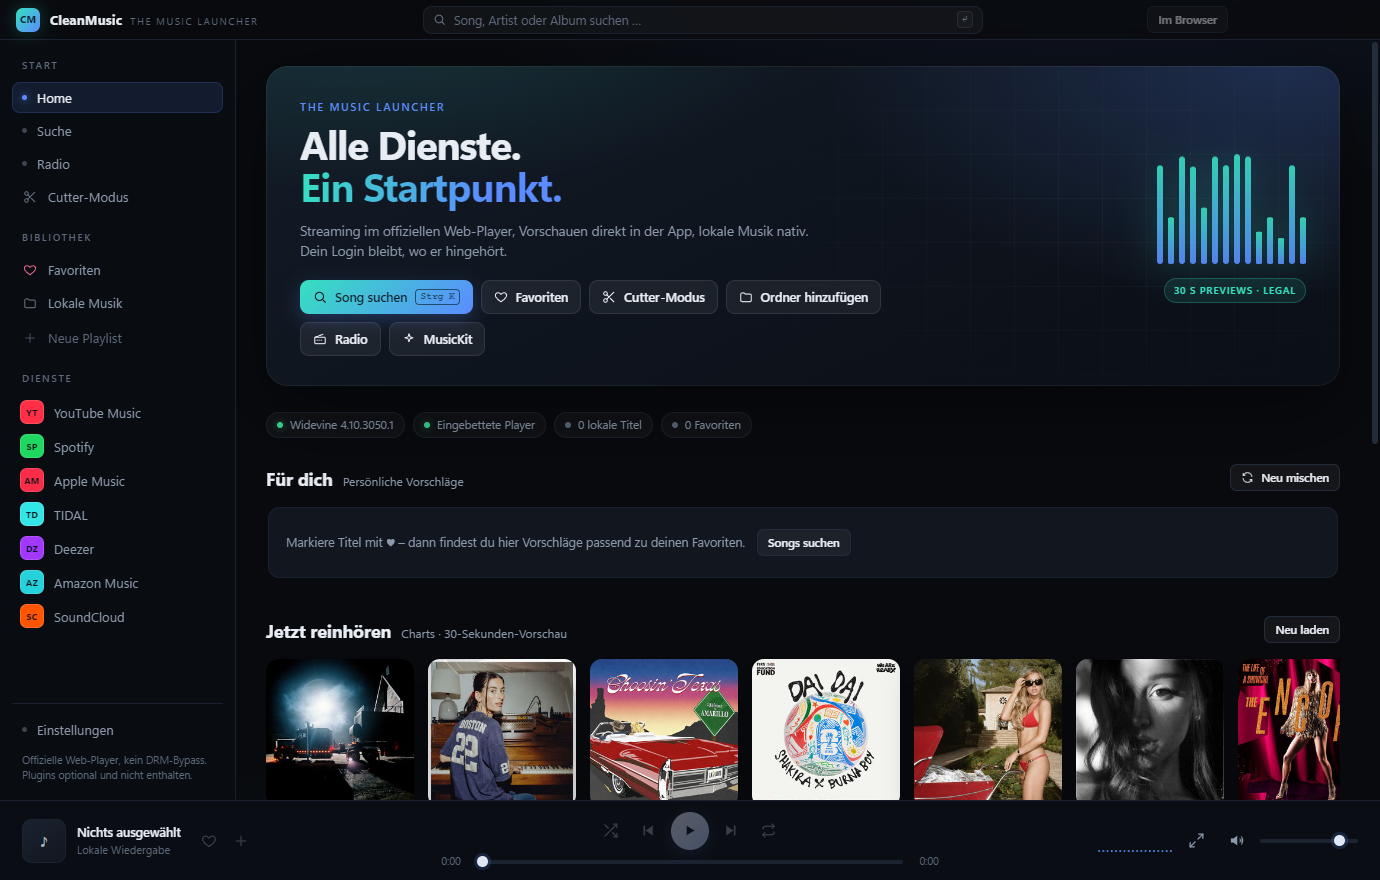
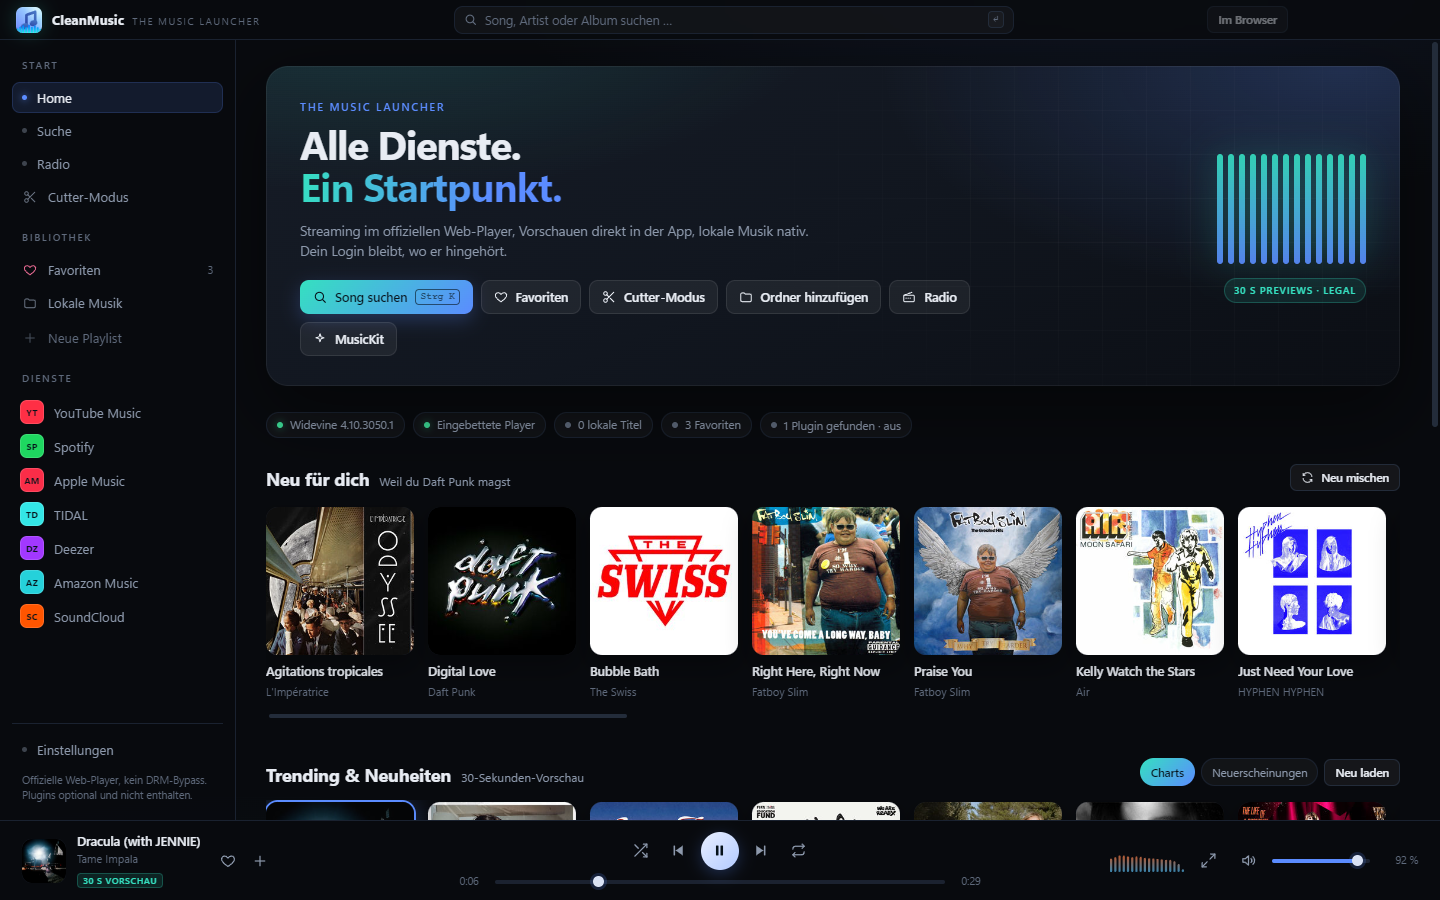
README: neue Screenshots (Startseite, Themes), AGENTS.md ergänzt

diff --git a/AGENTS.md b/AGENTS.md
@@ -2,7 +2,7 @@
 
 ## Stand (Version 0.9.0)
 
-Electron-App für Windows, die Musik-Streamingdienste als offizielle Web-Player einbettet und selbst abspielt: lokale Dateien, 30-Sekunden-Vorschauen (Apple Music, Deezer), Live-Radio, Favoriten, Playlists, Vorschläge, Cutter-Modus (NCS, Kevin-MacLeod-Klassiker, Soundeffekte und freie Musik über Openverse, mit Lizenz und Credit), Vollbild-Player mit Visualizer, optionale Discord Rich Presence und optionale Quellen-Plugins. Seit 0.8: gehörrichtiger Lautstärkeregler (optional Angleichen und Boost über eine Web-Audio-Kette), zehn Themes plus Akzent aus dem Cover, Plugin-API v2 (Ereignisse, Player-Steuerung, Einstellungsfelder) und ein optionales OBS-Overlay-Plugin in `extras/plugins/`. Seit 0.9: Downloads nur „Nur Cutting“ (freie Lizenzen, Credit-.txt, Drag ins Schnittprogramm), lokaler Hör-Verlauf, Startseite mit „Neu für dich“, „Trending & Neuheiten“ (Charts, Neuerscheinungen, Plugin-Charts über `charts()`) und „Wiederentdecken“. Als Nächstes (1.0, mit dem User): Streamer.bot als eigenes Plugin.
+Electron-App für Windows, die Musik-Streamingdienste als offizielle Web-Player einbettet und selbst abspielt: lokale Dateien, 30-Sekunden-Vorschauen (Apple Music, Deezer), Live-Radio, Favoriten, Playlists, Vorschläge, Cutter-Modus (NCS, Kevin-MacLeod-Klassiker, Soundeffekte und freie Musik über Openverse, mit Lizenz und Credit), Vollbild-Player mit Visualizer, optionale Discord Rich Presence und optionale Quellen-Plugins. Seit 0.8: gehörrichtiger Lautstärkeregler (optional Angleichen und Boost über eine Web-Audio-Kette), zehn Themes plus Akzent aus dem Cover, Plugin-API v2 (Ereignisse, Player-Steuerung, Einstellungsfelder) und ein optionales OBS-Overlay-Plugin in `extras/plugins/`. Seit 0.9: Downloads nur „Nur Cutting“ (freie Lizenzen, Credit-.txt, Drag ins Schnittprogramm), lokaler Hör-Verlauf, Startseite mit „Neu für dich“, „Trending & Neuheiten“ (Charts, Neuerscheinungen, Plugin-Charts über `charts()`) und „Wiederentdecken“. Dazu: Medientasten/Windows-Medien-Overlay (mediaSession), Backup als JSON (Import ergänzt nur), Tray-Symbol mit optionalem Weiterlaufen beim Schließen (Herunterfahren nie blockieren). Als Nächstes (1.0, mit dem User): Streamer.bot als eigenes Plugin.
 
 ## Aufbau
 

diff --git a/README.md b/README.md
@@ -24,10 +24,12 @@ Kein DRM-Bypass. Kein Herunterladen oder Speichern von Streams.
 ## Einblicke
 
 <p align="center">
-  <img src="docs/images/01-startseite.png" alt="CleanMusic-Startseite mit Suche, Diensten und Charts" width="100%">
+  <img src="docs/images/01-startseite.png" alt="CleanMusic-Startseite mit Vorschlägen, Trending & Neuheiten und Player" width="100%">
 </p>
 
 <table>
+  <tr><th colspan="2">Zehn Themes und Akzentfarbe aus dem Cover</th></tr>
+  <tr><td colspan="2"><img src="docs/images/02-themes.png" alt="Theme-Auswahl mit zehn Farbschemata" width="100%"></td></tr>
   <tr><th>Cutter-Modus</th><th>Vollbild-Player mit Visualizer</th></tr>
   <tr>
     <td><img src="docs/images/03-cutter.png" alt="Cutter-Modus mit NCS-Kategorien, Titelliste und Video-Credits" width="100%"></td>
